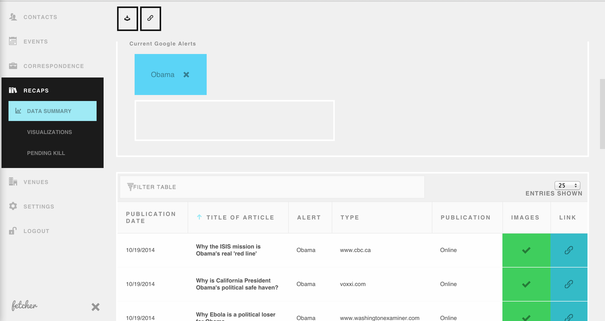
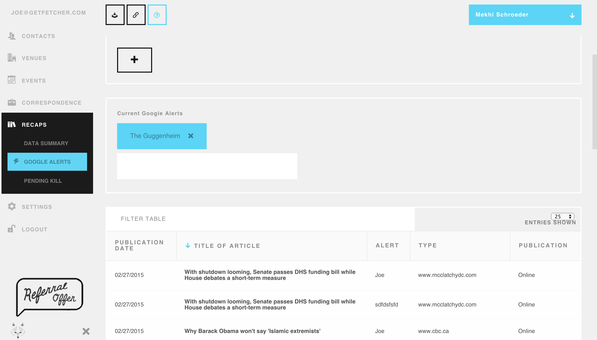
[FIXED] - Obama --> The Guggenheim

diff --git a/_site/importing-contacts-to-fetcher/index.html b/_site/importing-contacts-to-fetcher/index.html
@@ -49,13 +49,15 @@
 	</header>
 	
 	<article class="post-content">
-		<p>Importing contacts from existing platforms can uploaded to fetcher using Commas Separated Files (CSV) or Excel Files. Currently the only three extensions we support are <code>xls</code>, <code>xlsx</code>, and <code>csv</code>. Before attempting to upload a list of contacts, you need to format the columns correct so that our software understands which fields to populate in the contact table. Currently, the only <strong>require</strong> fields for contacts are:</p>
+		<p>Importing contacts from existing platforms can uploaded to fetcher using Commas Separated Files (CSV) or Excel Files. Currently the only three extensions we support are <code>xls</code> and <code>xlsx</code>. Before attempting to upload a list of contacts, you need to format the columns correct so that our software understands which fields to populate in the contact table. Currently, the only <strong>require</strong> columns for contacts are:</p>
 
 <ol>
-  <li>primary email (your column should be named primary_email)</li>
-  <li>first name (your column should be named first_name)</li>
-  <li>last name (your column should be named last_name)</li>
+  <li>primary_email </li>
+  <li>first_name</li>
+  <li>last_name</li>
 </ol>
+
+<p>Don’t worry if all of your data is not formatted correctly – GetFetcher will let you fix any errors you may have before you upload them, as long as your columns are defined correctly.</p>
 
 <p>The following columns names are currently accepted by GetFetcher.com</p>
 
@@ -64,32 +66,40 @@
   <li>last_name</li>
   <li>city</li>
   <li>state</li>
-  <li>email</li>
+  <li>code</li>
   <li>primary_email</li>
   <li>full_name</li>
-  <li>affiliation</li>
-  <li>company</li>
-  <li>first</li>
-  <li>last</li>
+  <li>affiliations (multiple affiliations are specified using <code>;</code>)</li>
+  <li>tags (multiple tags are specified using <code>;</code>)</li>
+  <li>code</li>
   <li>notes</li>
   <li>title</li>
-  <li>prefix</li>
-  <li>asst_first_name</li>
-  <li>asst_email</li>
-  <li>asst_phone_number</li>
-  <li>mgr_pbl_name</li>
-  <li>mgr_pbl_email</li>
   <li>partner</li>
   <li>twitter</li>
   <li>instagram</li>
+  <li>linkedin</li>
   <li>secondary_email</li>
   <li>primary_phone</li>
-  <li>secondary_phone</li>
 </ol>
 
-<p>One important thing to notice is we <strong>do not</strong> accept column names with spaces in them: if you want to upload contacts with secondary email addresses, the column name needs to be <strong>secondary_email</strong> not <strong>secondary email</strong>.</p>
+<p>One important thing to notice is we <strong>do not</strong> accept column names with spaces in them: if you want to upload contacts with secondary email addresses, the column name needs to be <strong>secondary_email</strong> not <strong>secondary email</strong>. All of your columns should be defined in lower case characters also. Thank you!</p>
 
 <p>Another very important thing to pay attention to is commas when uploading CSV files: CSV files, by definiton, are separated by commas. For GetFetcher.com to successfully upload your file, there needs to be the same number of columns in each row, otherwise that row will be skipped. Therefore, if you have fields with commas in them (such as the affiliation or company fields), you should convert that field to Excel (<code>xls</code>,<code>xlsx</code>) instead of using CSV so we are  able to successfully upload all of your contacts.</p>
+
+<h4 id="uploading-codes">Uploading Codes</h4>
+
+<p>We strongly recommend you provide the <code>code</code> column. Codes are used for email templates and routing for blast in Events Correspondence. Different coded contacts receive different emails when you send a blast.</p>
+
+<p>The following codes are currently accepted by Fetcher (case insensitive)</p>
+
+<ol>
+  <li>Civilian</li>
+  <li>VIP</li>
+  <li>Client</li>
+  <li>Press</li>
+</ol>
+
+<p>If the code column is not specified, or if you leave the cell blank for certain contacts, all contacts missing codes will be defaulted to <code>Civilian</code>.</p>
 
 	</article>
 </div>

diff --git a/_site/add-google-alerts-to-press-recaps/index.html b/_site/add-google-alerts-to-press-recaps/index.html
@@ -53,7 +53,7 @@
 
 <p>To add a new google alert to the fetcher platform, you need to first add the alert to Google. Login to your Google account (any account will work, it does not have to be the one connected to GetFetcher.com) and go to the <a href="https://www.google.com/alerts">Alerts Page</a>.</p>
 
-<p>You can add your Google alert by adding the alert name to the input field. In the following example, I am going to add Barack Obama as a new Google Alert</p>
+<p>You can add your Google alert by adding the alert name to the input field. In the following example, I am going to add “The Guggenheim” as a new Google Alert</p>
 
 <p><img src="/images/posts/google_alert_1.png" alt="x" /></p>
 

diff --git a/_site/README.md b/_site/README.md
@@ -1,4 +1,1 @@
-socialq.github.io
-=================
-
-The blog of SocialQ
+The help blog for www.getfetcher.com
